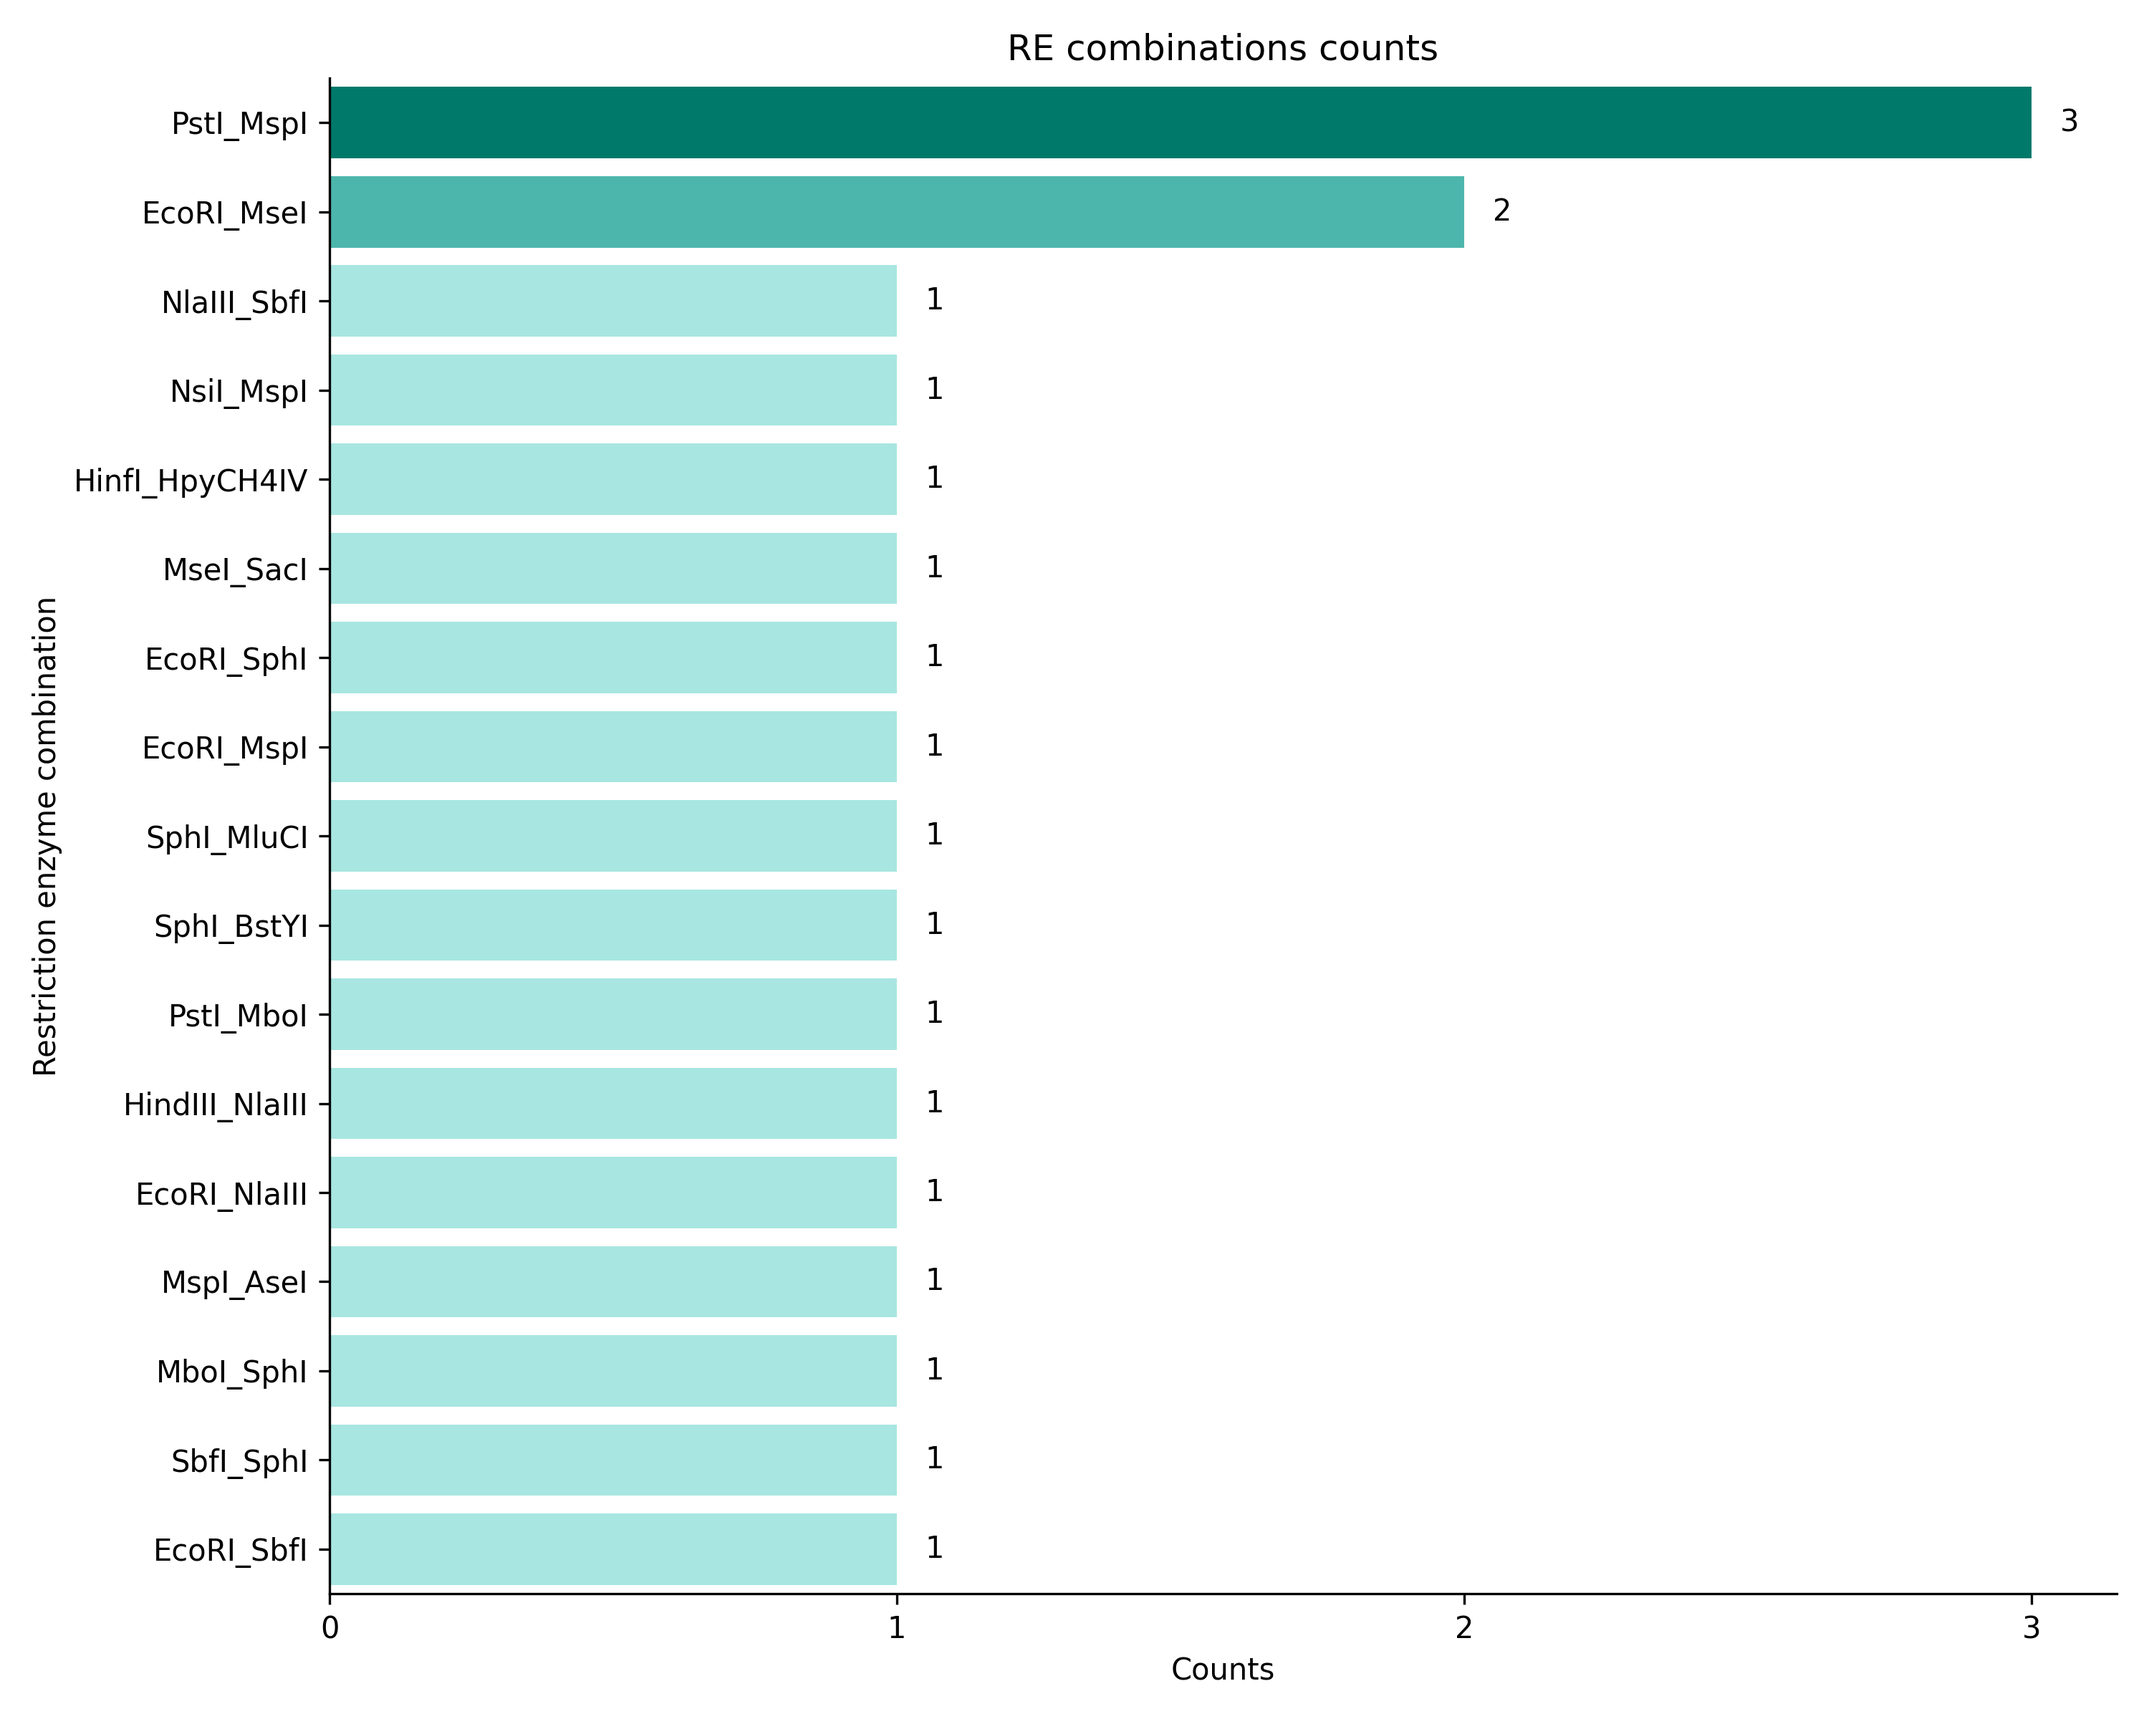
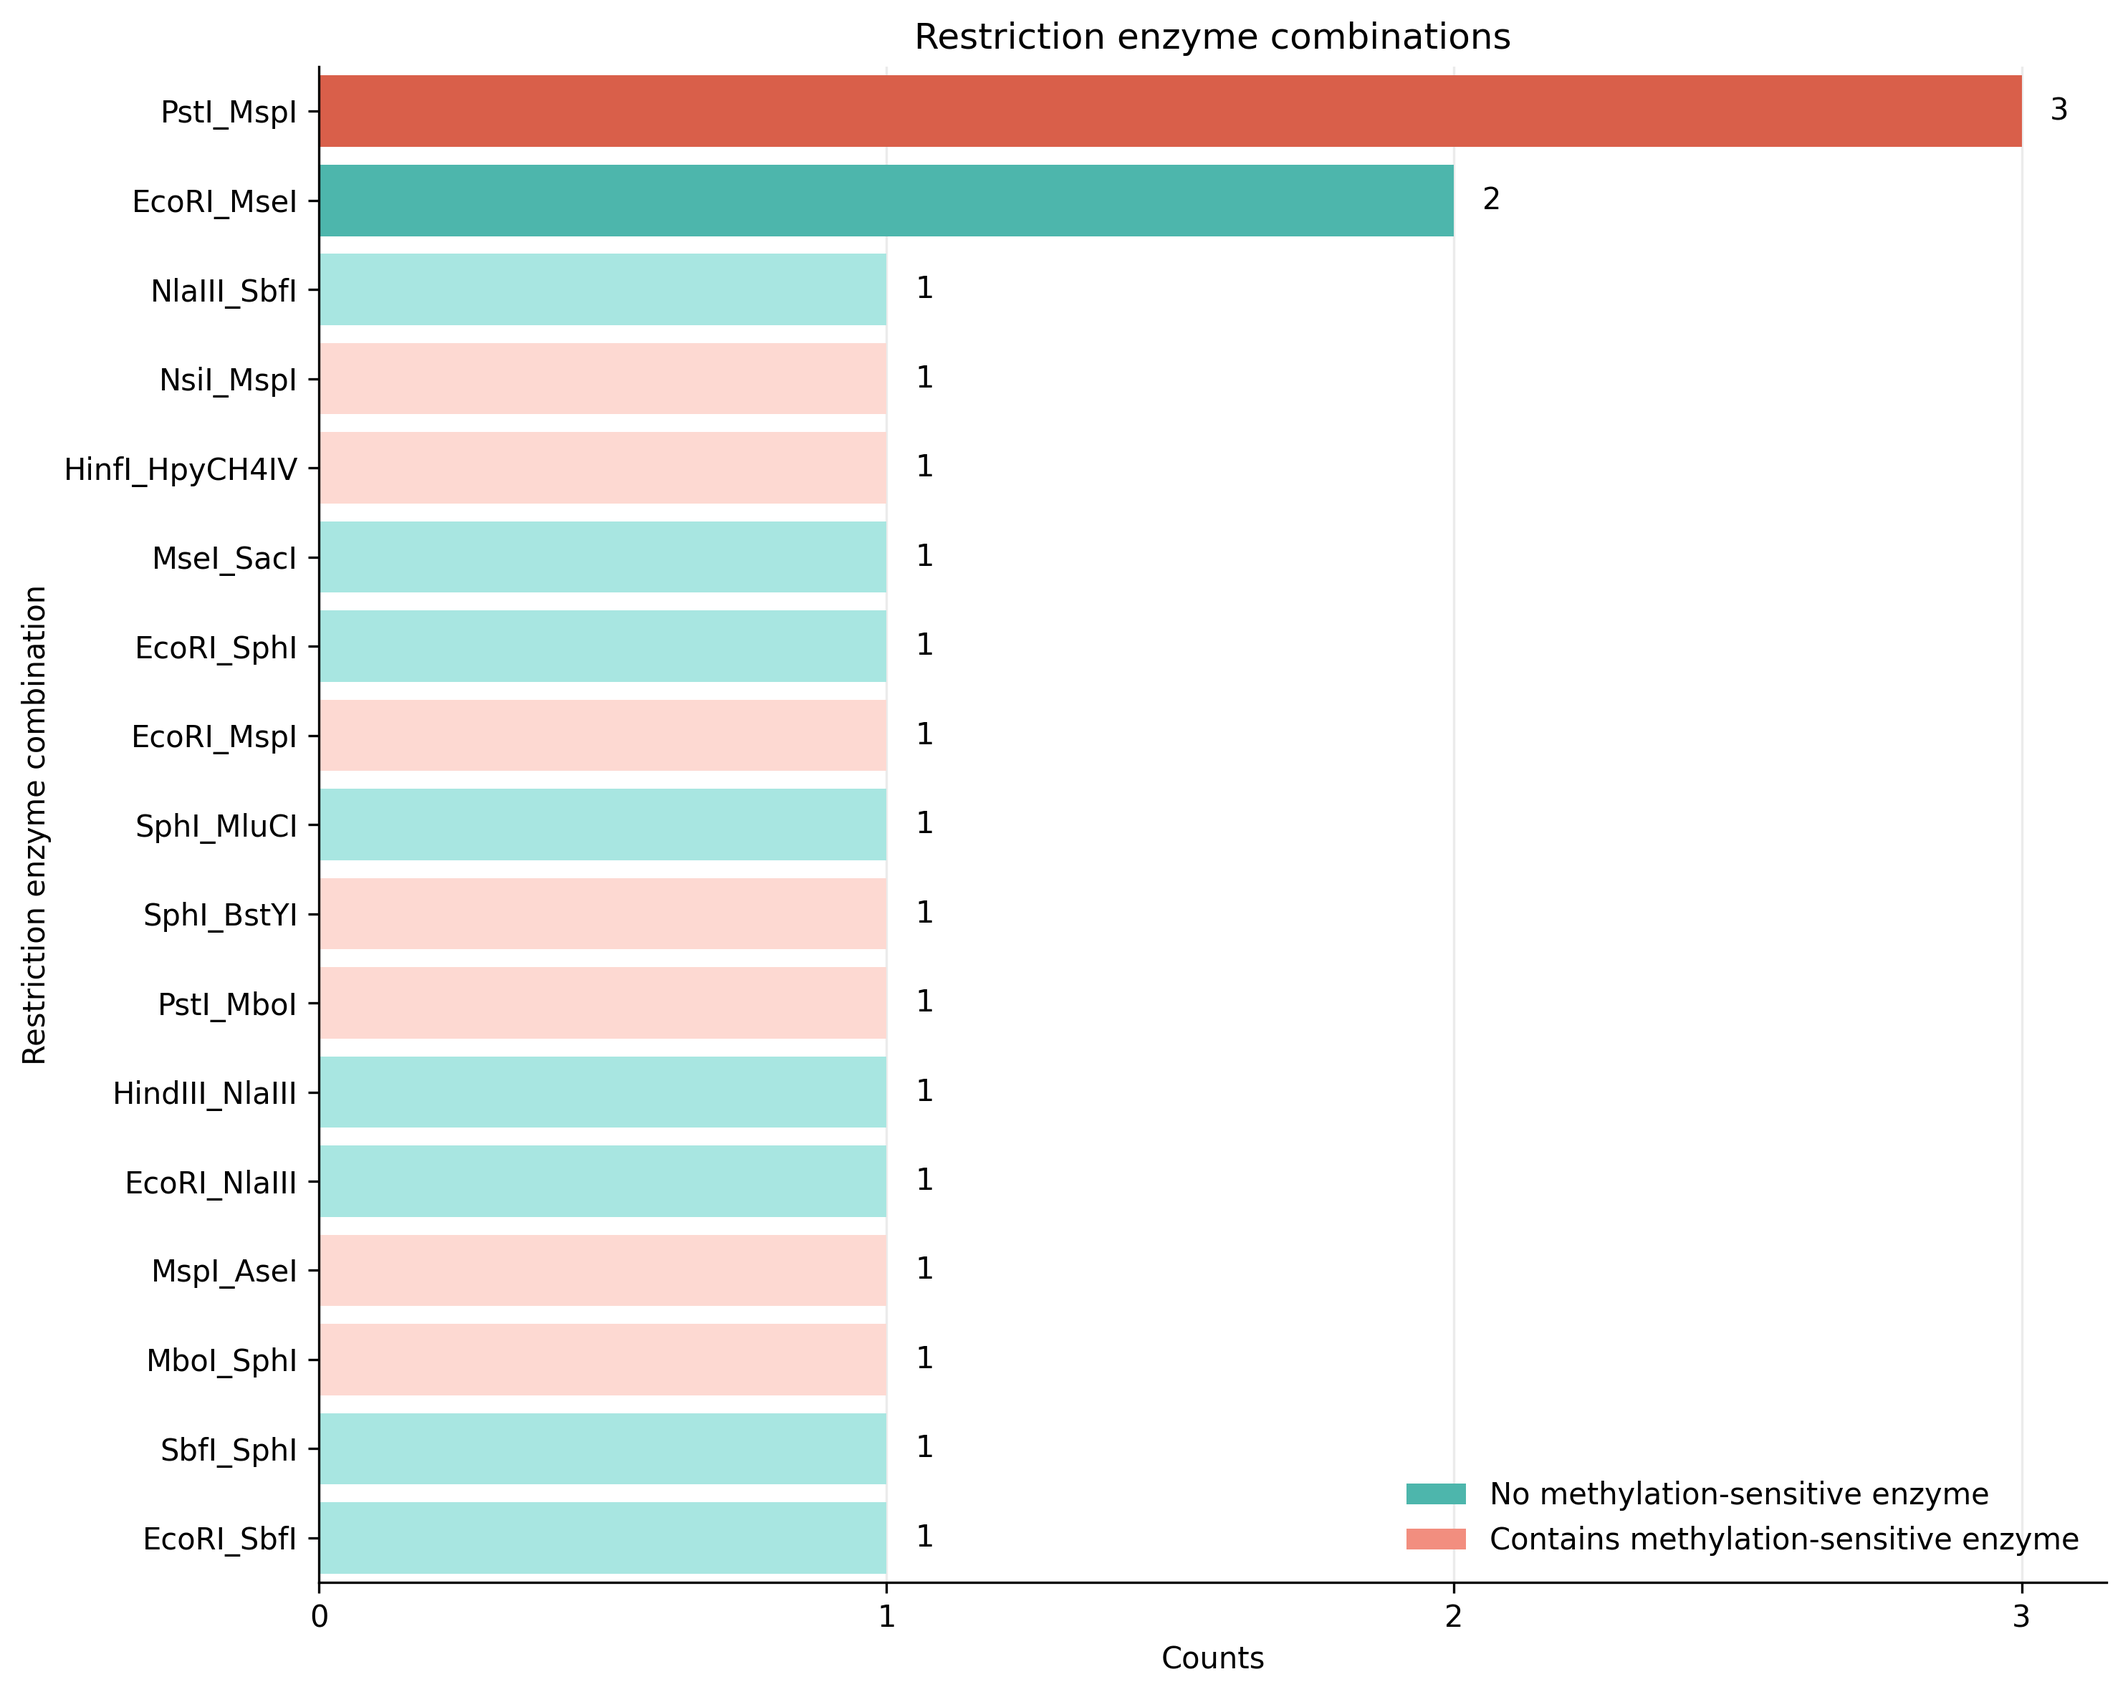
methylation and no methylation change in visualization

Changed region(s): [[0.031, 0.0, 0.9912, 0.9371], [0.0, 0.3436, 0.031, 0.6247], [0.5576, 0.9683, 0.5886, 0.9996]]

diff --git a/testing/enzyme_combs_count.py b/testing/enzyme_combs_count.py
@@ -1,25 +1,42 @@
 import pandas as pd
 import matplotlib.pyplot as plt
-from matplotlib.colors import Normalize
 from matplotlib.ticker import MultipleLocator
-
 
 input_file = "/Users/eliskakorbova/Desktop/biopython/rendogbs/testing/enzyme_combs_counts.csv"
 
+# Load data
 df = pd.read_csv(input_file)
 
+# Sort by count
 df = df.sort_values("count")
 
-norm = Normalize(df["count"].min(), df["count"].max())
-palette = {
-    1: "#A8E6E1",
-    2: "#4DB6AC",
-    3: "#00796B"
+# Color palettes
+palette_no = {
+    1: "#A8E6E1",   # light green-turquoise
+    2: "#4DB6AC",   # medium turquoise
+    3: "#00796B"    # dark teal
 }
 
-colors = [palette[c] for c in df["count"]]
+palette_yes = {
+    1: "#FDD9D2",
+    2: "#F28E7F",
+    3: "#D95F4A"
+}
 
-fig, ax = plt.subplots(figsize=(10,8))
+# Assign colors according to count AND methylation sensitivity
+colors = []
+
+for _, row in df.iterrows():
+    count = row["count"]
+    methyl = row["methylation_sensitive"].strip().lower()
+
+    if methyl == "yes":
+        colors.append(palette_yes[count])
+    else:
+        colors.append(palette_no[count])
+
+# Plot
+fig, ax = plt.subplots(figsize=(10, 8))
 
 bars = ax.barh(
     df["combination"],
@@ -27,26 +44,49 @@ bars = ax.barh(
     color=colors
 )
 
+# Values at the end of bars
 for bar in bars:
     width = bar.get_width()
-    ax.text(width + 0.05,
-            bar.get_y() + bar.get_height()/2,
-            str(int(width)),
-            va='center')
+    ax.text(
+        width + 0.05,
+        bar.get_y() + bar.get_height() / 2,
+        str(int(width)),
+        va="center",
+        fontsize=10
+    )
 
+# Axes
 ax.set_xlabel("Counts")
-ax.xaxis.set_major_locator(MultipleLocator(1))
 ax.set_ylabel("Restriction enzyme combination")
-ax.set_ylim(-0.5, len(df) - 0.5)
-ax.set_title("RE combinations counts")
+ax.set_title("Restriction enzyme combinations")
 
+ax.xaxis.set_major_locator(MultipleLocator(1))
+ax.set_ylim(-0.5, len(df) - 0.5)
+
+# Clean style
 ax.spines["top"].set_visible(False)
 ax.spines["right"].set_visible(False)
+ax.grid(axis="x", alpha=0.25)
+ax.set_axisbelow(True)
+
+# Legend
+from matplotlib.patches import Patch
+
+legend_elements = [
+    Patch(facecolor="#4DB6AC", label="No methylation-sensitive enzyme"),
+    Patch(facecolor="#F28E7F", label="Contains methylation-sensitive enzyme")
+]
+
+ax.legend(
+    handles=legend_elements,
+    frameon=False,
+    loc="lower right"
+)
 
 plt.tight_layout()
 
-
+# Save
 output = input_file.replace(".csv", "_barplot.png")
-plt.savefig(output, dpi=300)
+plt.savefig(output, dpi=300, bbox_inches="tight")
 
 plt.show()
